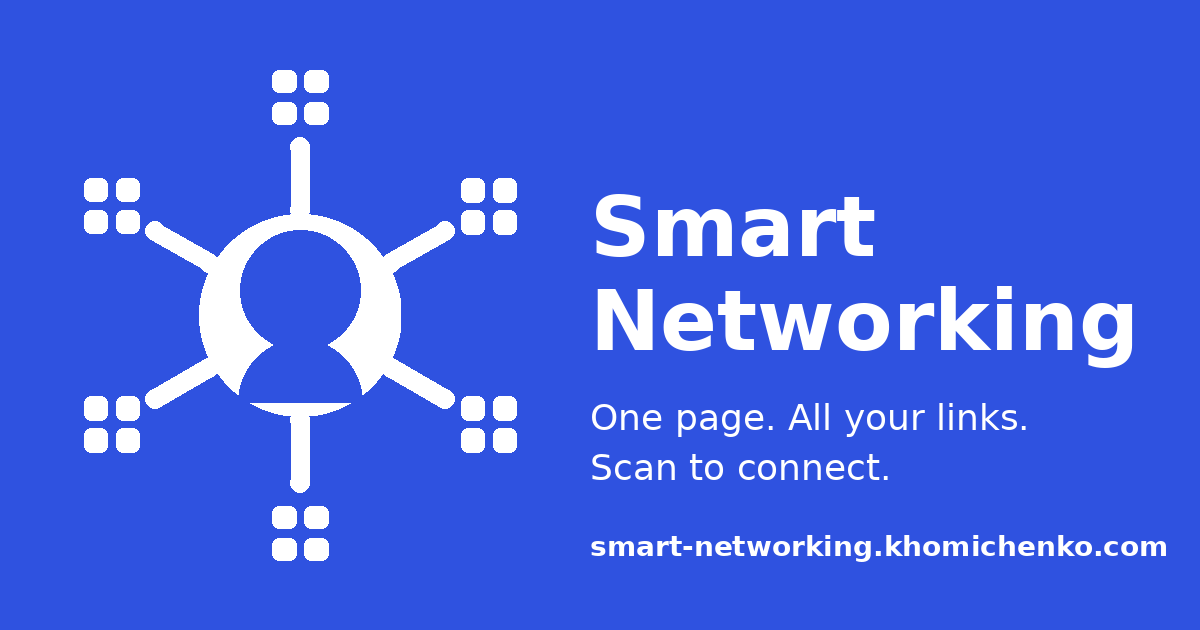
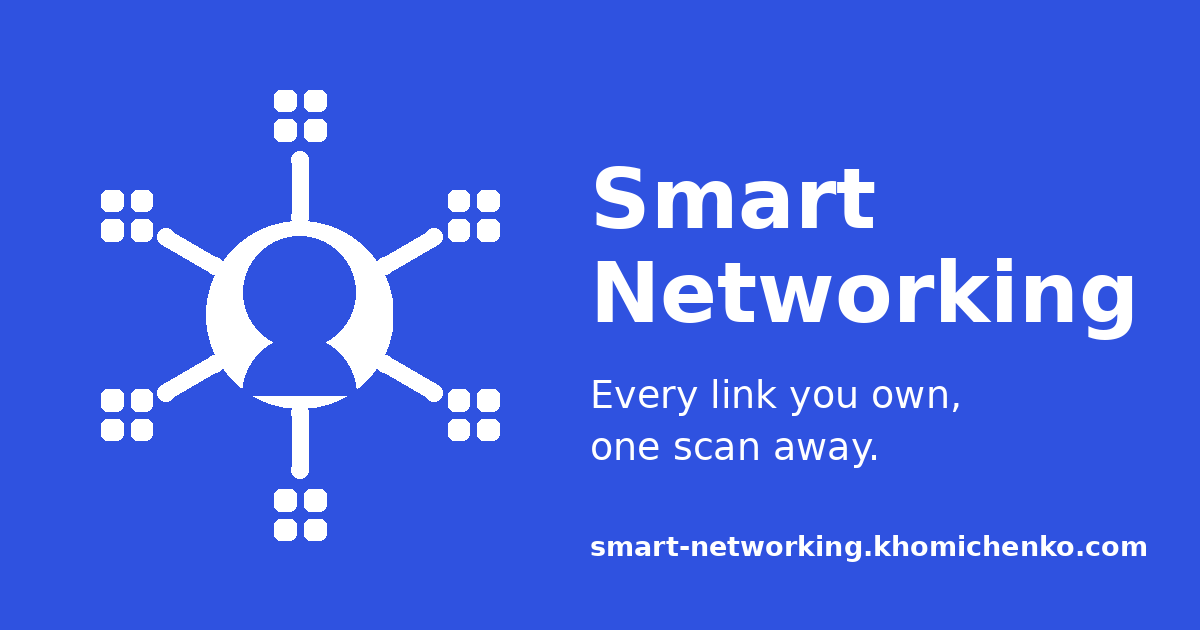
Broaden product positioning

diff --git a/src/app/layout.tsx b/src/app/layout.tsx
@@ -6,7 +6,7 @@ import RegisterSW from "@/components/RegisterSW";
 
 const SITE_URL = "https://smart-networking.khomichenko.com";
 const DESCRIPTION =
-  "One mobile page with QR codes for all your professional links. Built for conferences, events and networking.";
+  "Every link you own, one scan away. Swap contacts anywhere, share anything without typing, and keep your go-to links pinned. Works offline, no login.";
 
 export const metadata: Metadata = {
   metadataBase: new URL(SITE_URL),